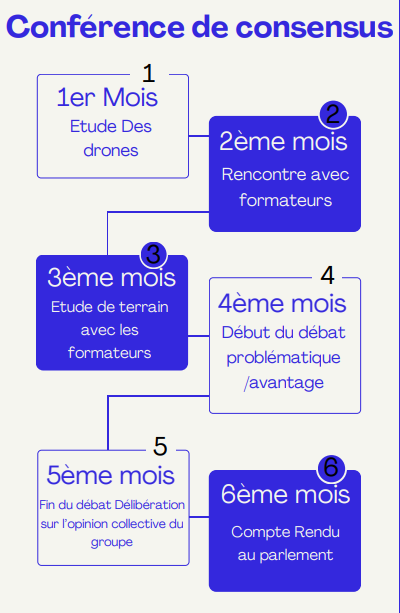
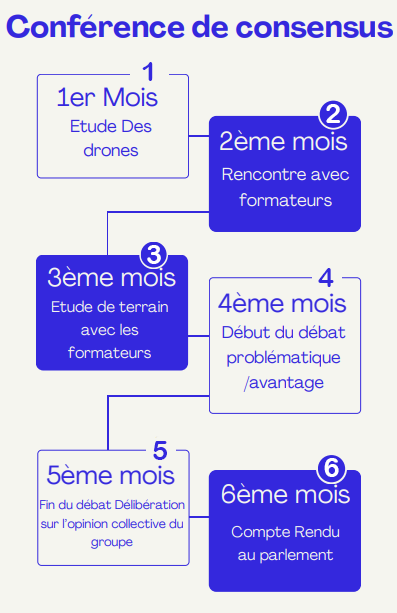
Update insights content and images for drone delivery
Replaced and revised insight articles to focus on drone delivery use cases, impacts, and debates, including new case studies and French-language content. Updated images and references in services and insights pages, added new images for case studies, and improved text accuracy and clarity throughout.

diff --git a/src/content/insights/en/insight-1.md b/src/content/insights/en/insight-1.md
@@ -1,42 +1,39 @@
 ---
-title: "The Future of Construction Technology"
-description: "Explore ScrewFast's pioneering role in revolutionizing construction through advanced technology and innovative solutions."
-cardImage: "@/images/insights/insight-1.avif"
-cardImageAlt: "Top view mechanical tools arrangement"
+title: "L'exemple des livraisons sanitaires en Afrique"
+description: "Avant de développer un accès total à la livraison par drone pour tous, il convient d'identifier des usages adaptés."
+cardImage: "@/images/insights/zipline.png"
+cardImageAlt: "Image d'un drone Zipline livrant une poche de sang."
 ---
 
-In the world of construction, where innovation meets practicality, ScrewFast stands as a beacon of pioneering advancements. For years, this company has been at the forefront of revolutionizing construction through its unwavering commitment to advanced technology and innovative solutions. From skyscrapers to bridges, ScrewFast has left an indelible mark on the industry, shaping the future of construction in ways once thought unimaginable.
+Peu de personnes le savent mais en Afrique une grande révolution est en cours. En effet, à l'heure où nous écrivons ce texte, des pays tels que le Ghana, le Rwanda, le Nigeria, le Kenya, ou la Côte d’Ivoire font appel aux services de l'entreprise américaine [Zipline](https://www.zipline.com/) pour traiter une partie des livraisons sanitaires.
 
-## A Legacy of Innovation
+## Combattre des maladies à la souche
 
-Founded with a vision to redefine the norms of construction, ScrewFast embarked on a journey marked by relentless innovation. Since its inception, the company has continually pushed the boundaries of what is possible, introducing groundbreaking technologies that have transformed the way structures are built.
+Depuis de nombreuses années, le Rwanda est touché par une épidémie de Malaria, il existe bien des médicaments permettant de soigner les fortes fièvres qui se manifestent chez les jeunes enfants, cependant ces derniers arrivent au compte goutte depuis d'autres continents. Il arrive donc régulièrement que certaines infrastructures médicales locales arrivent à manquer de substances permettant de soulager les symptômes. C'est ici qu'interviennent les drones de la compagnie Zipline.
 
-## Reinventing Foundation Systems
+Plus de 70 hôpitaux locaux sont livrés par drone à leur demande, ils se situent tous dans les régions du Nyagatare, Gisagara, et Nyamasheke, qui sont des régions avec de mauvaises infrastructures routières. 
 
-At the heart of ScrewFast's success lies its revolutionary approach to foundation systems. Traditionally, the process of laying foundations has been cumbersome and time-consuming, often requiring extensive excavation and manual labor. However, ScrewFast's innovative solutions have changed the game entirely.
+## Réduire les temps d'attente
 
-By leveraging advanced techniques such as helical pile installation, ScrewFast has streamlined the foundation process, significantly reducing both time and cost. These helical piles, with their screw-like design, offer unparalleled stability and can be installed with remarkable efficiency, making them the go-to choice for projects of all sizes.
+Un des personnels de santé explique notamment qu'avant l'arrivé de la livraison par drone, les médecins devaient attendre plus de deux jours avant de pouvoir administrer les médicaments aux personnes malades. Avec des drones livreurs, la livraison prend exactement 27 minutes !
 
-## Embracing Digitalization
 
-In an era dominated by digitalization, ScrewFast has embraced technology wholeheartedly, harnessing its power to drive efficiency and precision. Through the use of advanced software and modeling techniques, the company has revolutionized the design and planning phases of construction projects.
+## Réduire le gaspillage et la mauvaise médication
 
-From 3D modeling to Building Information Modeling (BIM), ScrewFast employs cutting-edge tools to create detailed simulations of structures, allowing for better visualization and optimization. This digital approach not only enhances the accuracy of construction plans but also enables seamless collaboration among architects, engineers, and builders.
+il est cependant important de noter qu'une livraison médicale par drone n'est pas identique à une livraison classique par véhicule terrestre, en effet, la livraison est à la demande des médecins, le drone livre donc des petites quantités qui correspondent aux besoins réels des patients.
 
-## Sustainable Solutions for a Greener Tomorrow
+Le ministère de la santé rwandais évite donc des déséquilibres de distribution logistique, avec des médicaments qui seraient trop nombreux à un endroit et manquants à l'autre bout du pays. Mais c'est surtout la possibilité de pouvoir à présent administrer le médicament exact à la personne malade qui est offerte : les infirmiers ont pû par le passé prescrire des médicaments inadaptés à des patients. Les substances étaient alors trop dosées ou pas efficaces contre la bactérie, mais le personnel n'avait pas d'autres choix que de travailler avec les antibiotiques disponibles. 
 
-In a world increasingly concerned with sustainability, ScrewFast has taken proactive steps to minimize its environmental footprint. By prioritizing eco-friendly materials and sustainable construction practices, the company is leading the charge towards a greener future.
+## Développer l'accès à l'emploi localement
 
-One notable example is ScrewFast's commitment to modular construction—a method that involves prefabricating building components off-site and assembling them on-site. This approach not only reduces construction waste but also minimizes disruption to local ecosystems, making it a win-win for both builders and the environment.
+Enfin, il est important de noter que ce ne sont pas des employés américains qui font tourner ce système; En effet bien que la conception des drones se déroule aux États-Unis, les engins volants sont opérés de A à Z par des employés locaux. Ce sont donc plus de 500 emplois qui ont été créé dans les pays où la compagnie Zipline donne accès à ses drones, répartis dans plus de 13 centres opérationnels aux quatres coins de l'Afrique.
 
-## The Road Ahead: Challenges and Opportunities
+## Transférer ce savoir faire pour l'agriculture
 
-As ScrewFast continues to push the boundaries of construction technology, it faces a myriad of challenges and opportunities on the horizon. From navigating regulatory hurdles to adapting to evolving industry trends, the road ahead is fraught with complexities.
-
-However, with its unwavering dedication to innovation and a track record of success, ScrewFast is well-positioned to overcome these obstacles and continue shaping the future of construction for generations to come. As the industry marches towards an increasingly digital and sustainable future, ScrewFast stands as a beacon of progress, leading the way towards a world where construction is not just efficient and cost-effective but also environmentally responsible.
+Dans des pays où la sous nutrition est malheureusement un problème majeur, il convient de renforcer l'agriculture locale pour faire face aux aléas. C'est pourquoi depuis 2023 Zipline permet la livraison de kits d’insémination artificiel pour les élevages porcins. Comme l'explique un agriculteur rwandais cela lui permet de sélectionner des races plus performantes et robustes afin de viabiliser l'accès à une nourriture de qualité.
 
 ## Conclusion
 
-In the ever-evolving landscape of construction technology, ScrewFast remains a trailblazer, constantly pushing the boundaries of what is possible. Through its commitment to innovation, digitalization, and sustainability, the company has not only revolutionized the way structures are built but has also set a new standard for excellence in the industry.
+Vous avez donc pû entrevoir l'étendue des possibilités offertes par la livraison par drone dans des pays qui ne demandent qu'à se développer en faisant appel à ce type de solution. Ces dernières, bien qu'elles ne soient pas des réponses miracles, permettent tout de même de résoudre certains enjeux critiques localement.
 
-As we look towards the future, one thing is clear: the legacy of ScrewFast will continue to shape the world of construction for years to come, inspiring generations of builders to dream big and push the limits of possibility. With ScrewFast leading the way, the future of construction has never looked brighter.
+Suite à cette étude de cas, nos membres ont acquiescé sur le fait qu'une utilisation ciblée de la livraison par drone en France est très largement envisageable.

diff --git a/src/content/insights/en/insight-2.md b/src/content/insights/en/insight-2.md
@@ -7,70 +7,30 @@ cardImageAlt: "Top view mechanical tools arrangement"
 
 ## Débat sur les dégats possible sur les Oiseaux.
 
-	
-	Marco : "Les oiseaux seront en danger avec la 
-	multiplication des drones dans les espaces ruraux,
-	en effet face au drone un oiseau peut prendre la 
-	fuite et abandonner son nid, ce qui peut 
-	entrainer un échec de reproduction"
 
-	Jérome : "Si des espaces protégés pour les oiseaux 
-	sont mis en place, cela pourrait réduire les 
-	risques des cas comme cela se passe?"
+Marco : "Les oiseaux seront en danger avec la multiplication des drones dans les espaces ruraux, en effet face au drone un oiseau peut prendre la fuite et abandonner son nid, ce qui peut entraîner un échec de reproduction"
 
-	Marco : "En effet ca pourrait aider, cependant 
-	les oiseaux migrent en groupe et ainsi ils sont 
-	aussi une menace pour les drones si un drone 
-	rencontre un groupe d'oiseaux migrateurs, on ne 
-	sait pas ce qui pourrait se passer"
+Jérome : "Si des espaces protégés pour les oiseaux sont mis en place, cela pourrait réduire les risques des cas comme cela se passe?"
 
-	Jérôme :" Donc, en plus de protéger les oiseaux, 
-	il faudrait aussi réguler l’usage des drones, 
-	surtout pendant les périodes de migration ? "
+Marco : "En effet ca pourrait aider, cependant les oiseaux migrent en groupe et ainsi ils sont aussi une menace pour les drones si un drone rencontre un groupe d'oiseaux migrateurs, on ne sait pas ce qui pourrait se passer"
 
-	Marco :"Exactement. On pourrait imaginer des 
-	couloirs aériens interdits aux drones, un peu 
-	comme pour l’aviation. Et pourquoi pas des 
-	systèmes de détection automatique pour éviter 
-	les collisions."
+Jérôme : "Donc, en plus de protéger les oiseaux, il faudrait aussi réguler l’usage des drones, surtout pendant les périodes de migration ? "
 
-	Jérôme :"Ce serait un bon compromis entre 
-	innovation technologique et protection de 
-	la biodiversité."
+Marco : "Exactement. On pourrait imaginer des couloirs aériens interdits aux drones, un peu comme pour l’aviation. Et pourquoi pas des systèmes de détection automatique pour éviter les collisions."
+
+Jérôme : "Ce serait un bon compromis entre innovation technologique et protection de la biodiversité."
 
 
 ## Le bruit des drones dans les campagnes
-	
-	Marie :"Ce qu’on observe en ville, c’est
-	que les drones ajoutent un bruit aigu très 
-	reconnaissable. Même si leur volume n’est 
-	pas énorme, leur fréquence attire 
-	immédiatement l’attention et perturbe le 
-	calme, surtout dans les zones résidentielles 
-	les drones peuvent monter jusqu'a 85 décibel."
 
-	Thimas :" C’est vrai. Il faut absolument réduire 
-	ce bruit afin de ne pas déranger les habitant, 
-	les drones devront voler a toutes heures cela 
-	pourrait vite devenir un problème. "
+Marie : "Ce qu’on observe en ville, c’est que les drones ajoutent un bruit aigu très  reconnaissable. Même si leur volume n’est pas énorme, leur fréquence attire immédiatement l’attention et perturbe le calme, surtout dans les zones résidentielles les drones peuvent monter jusqu'a 85 décibel."
 
-	Marie :" les nuisances sonores sont trés 
-	important, surtout lorsqu’il y a répétition. 
-	Un drone qui passe une fois, ce n’est rien. 
-	Mais des passages réguliers en soirée, près des 
-	fenêtres d’appartements. cela peut provoquer 
-	stress, gêne et troubles du sommeil. "
+Thomas : "C’est vrai. Il faut absolument réduire ce bruit afin de ne pas déranger les habitant, les drones devront voler a toutes heures cela pourrait vite devenir un problème. "
 
-	Thomas :" C’est pour cela qu'on pourrait mettre 
-	en place des règles : limiter les horaires de vol 
-	dans les quartiers d’habitation et créer des 
-	couloirs aériens qui évitent les zones sensibles, 
-	comme les écoles ou les hôpitaux. "
+Marie : "Les nuisances sonores sont très importantes, surtout lorsqu’il y a répétition. Un drone qui passe une fois, ce n’est rien. Mais des passages réguliers en soirée, près des fenêtres d’appartements. cela peut provoquer stress, gênes et troubles du sommeil. "
 
-	Guillaume :" Donc vous êtes tous les deux d’accord 
-	sur la nécessité d’un encadrement ? "
+Thomas : "C’est pour cela qu'on pourrait mettre en place des règles : limiter les horaires de vol dans les quartiers d’habitation et créer des couloirs aériens qui évitent les zones sensibles, comme les écoles ou les hôpitaux. "
 
-	Marie :" Oui, absolument. Le bruit des drones 
-	n’est pas insurmontable, mais il doit être planifié. 
-	Sinon, on risque d’ajouter une couche supplémentaire 
-	au brouhaha urbain. "
+Guillaume : "Donc vous êtes tous les deux d’accord sur la nécessité d’un encadrement ? "
+
+Marie : "Oui, absolument. Le bruit des drones n’est pas insurmontable, mais il doit être planifié. Sinon, on risque d’ajouter une couche supplémentaire au brouhaha urbain."

diff --git a/src/content/insights/en/insight-3.md b/src/content/insights/en/insight-3.md
@@ -1,5 +1,5 @@
 ---
-title: "The Impact of Sustainable Practices"
+title: "Empêcher le piratage des appareils"
 description: "Discover how ScrewFast is leading the charge in promoting sustainability within the construction industry"
 cardImage: "@/images/insights/insight-3.avif"
 cardImageAlt: "Top view mechanical tools arrangement"
